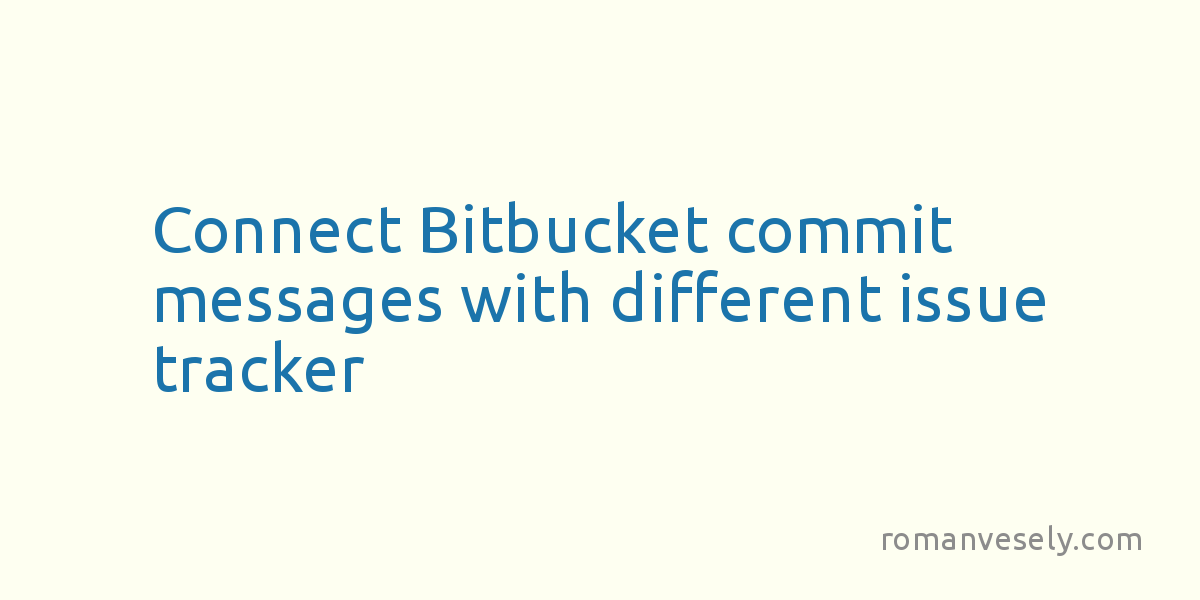
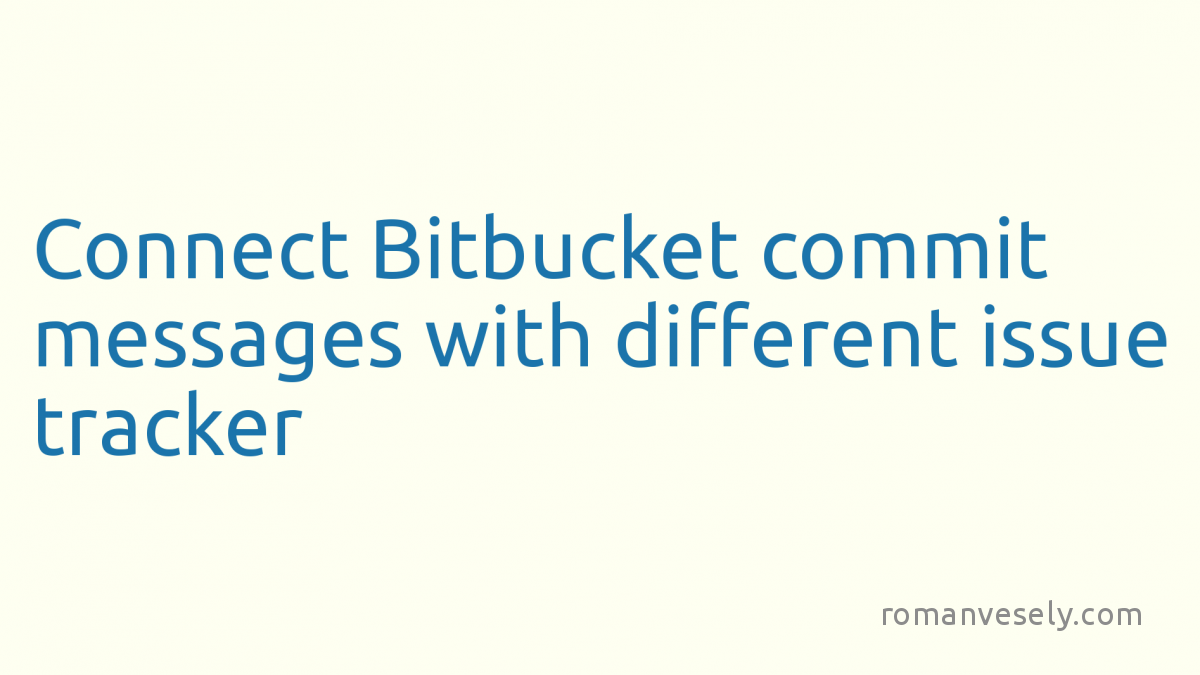
updated header images

Changed region(s): [[0.0308, 0.3, 0.9867, 0.69], [0.74, 0.87, 0.9558, 0.93]]

diff --git a/libs/TextToImage/Image.php b/libs/TextToImage/Image.php
@@ -29,7 +29,7 @@ class Image
      */
     private $width;
 
-    public function __construct(string $text, int $size = 50, int $width = 1200)
+    public function __construct(string $text, int $size = 100, int $width = 1200)
     {
         $this->size = $size;
         $this->text = new Text($this->size, self::ANGLE, self::FONT, $text);
@@ -39,8 +39,7 @@ class Image
     public function get(): Img
     {
         $width = max($this->width, ($this->text->width + self::PADDING));
-        // $height = floor($width / 16 * 9);
-        $height = floor($width / 2);
+        $height = floor($width / 16 * 9);
 
         // Calculate coordinates of the text
         $x = ($width / 2) - ($this->text->width / 2);
